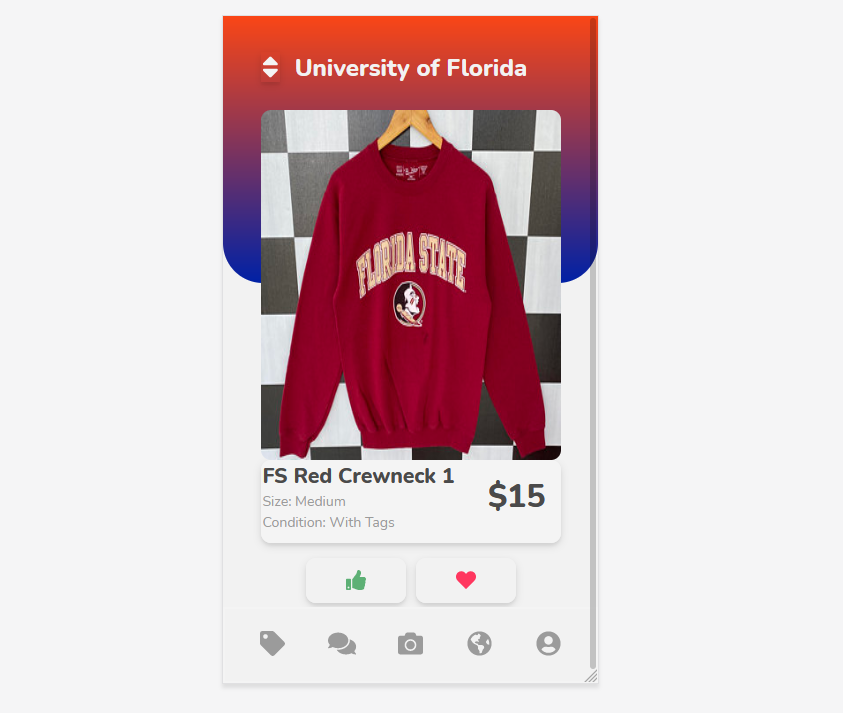
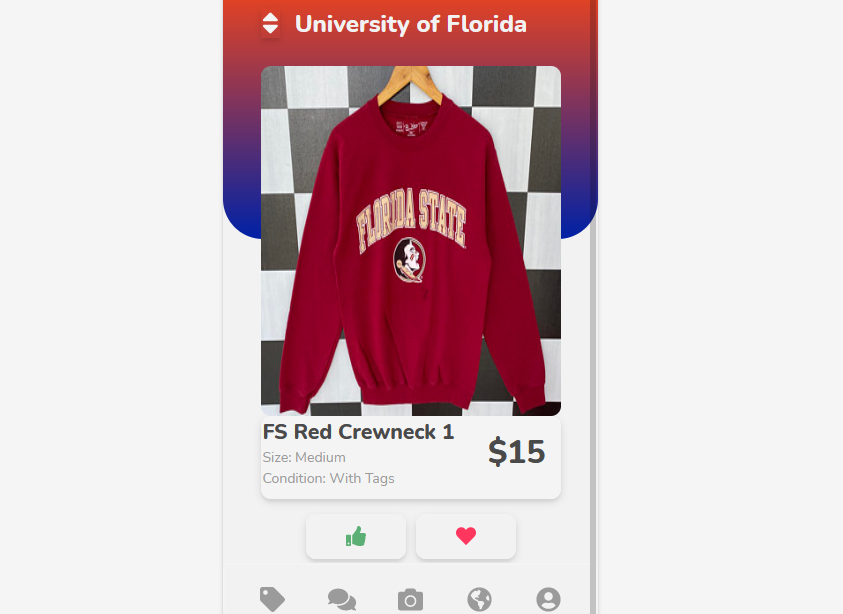
image resize

diff --git a/main.css b/main.css
@@ -331,7 +331,7 @@ a :visited {
 }
 
 .work-box__img {
-  width: 80%;
+  width: 70%;
   border: 0px;
 }
 
